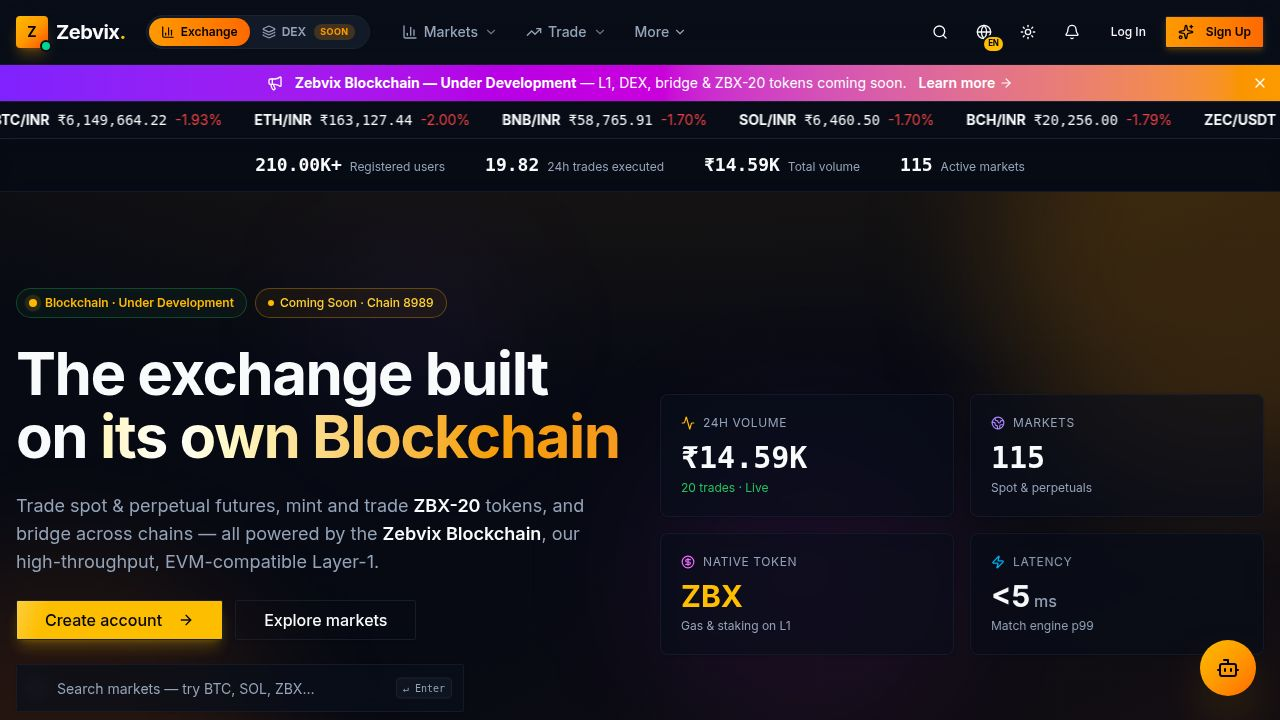
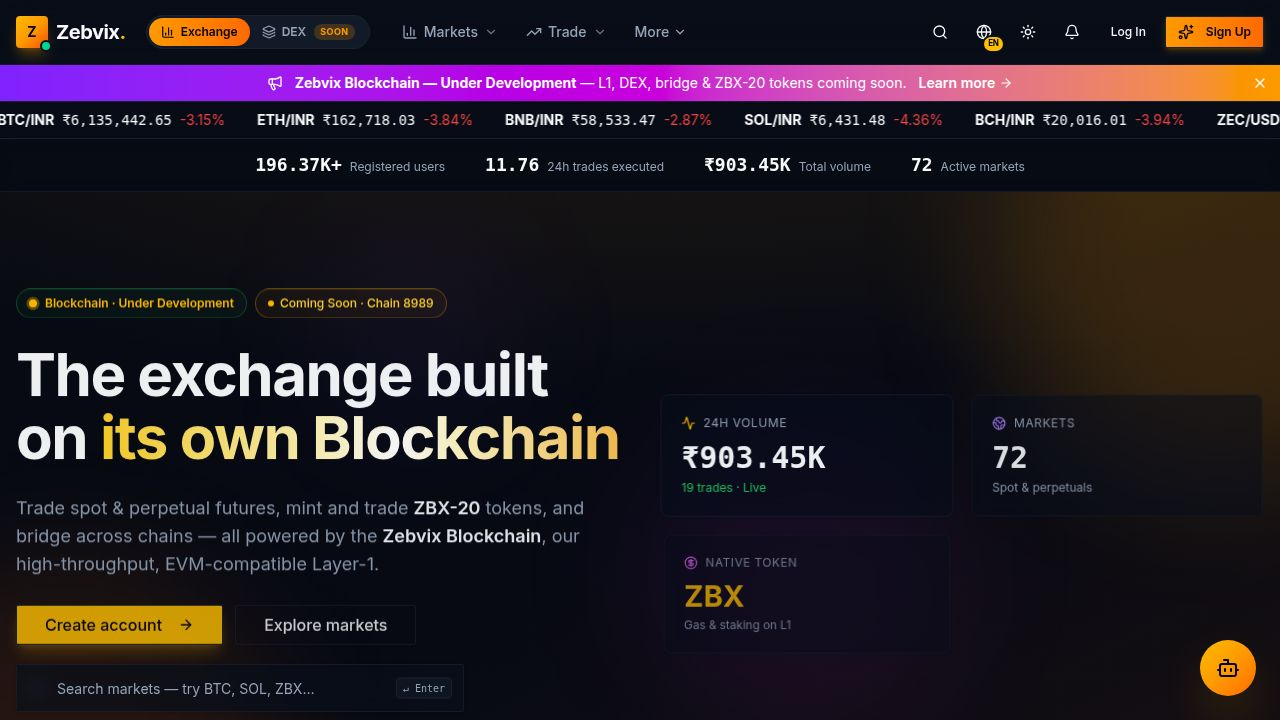
Update currency display to use correct symbols and suffixes
Refactor currency formatting logic across user portal and admin panel to correctly display USD, USDT, and INR values.

Replit-Commit-Author: Agent
Replit-Commit-Session-Id: 11d8fbd6-6061-4d3f-b195-ded5d54cade4
Replit-Commit-Checkpoint-Type: full_checkpoint
Replit-Commit-Event-Id: 20a359d4-cd0f-490e-a3e8-847477169274
Replit-Commit-Screenshot-Url: https://storage.googleapis.com/screenshot-production-us-central1/b46b8e3e-7cc7-4645-bdc1-8a74efc26a22/11d8fbd6-6061-4d3f-b195-ded5d54cade4/qW6uA1P
Replit-Helium-Checkpoint-Created: true

diff --git a/artifacts/user-portal/src/pages/Home.tsx b/artifacts/user-portal/src/pages/Home.tsx
@@ -94,8 +94,6 @@ function isInr(sym: string) {
 }
 function currencyPrefix(sym: string): string {
   if (isInr(sym)) return "₹";
-  const q = sym.split("/")[1] ?? sym;
-  if (q === "USDT" || q === "USDC" || q === "USD" || q === "BUSD") return "$";
   return "";
 }
 function fmtPrice(n: number, sym: string): string {
@@ -468,7 +466,7 @@ function MarketRow({
 
       {/* 24h volume (sm+) */}
       <div className="hidden sm:block sm:col-span-2 lg:col-span-1 text-right font-mono tabular-nums text-xs text-muted-foreground">
-        {fmtCompact(t.quoteVolume, isInr(t.symbol) ? "₹" : "$")}
+        {fmtCompact(t.quoteVolume, isInr(t.symbol) ? "₹" : "")}
       </div>
 
       {/* Sparkline */}
@@ -552,7 +550,7 @@ function MarketCard({
         </div>
         <div className="flex items-end justify-between">
           <div className="text-[10px] text-muted-foreground">
-            Vol {fmtCompact(t.quoteVolume, isInr(t.symbol) ? "₹" : "$")}
+            Vol {fmtCompact(t.quoteVolume, isInr(t.symbol) ? "₹" : "")}
           </div>
           <Sparkline symbol={t.symbol} positive={positive} />
         </div>
@@ -752,7 +750,7 @@ export default function Home() {
           {[
             { label: "Registered users", value: 210000, suffix: "+", prefix: "", compact: true },
             { label: "24h trades executed", value: stats.totalTrades24h || 18400, suffix: "", prefix: "", compact: true },
-            { label: "Total volume", value: stats.totalVolumeUsd || 61176470, suffix: "", prefix: "₹", compact: true },
+            { label: "Total volume", value: stats.totalVolumeInr || 6117647000, suffix: "", prefix: "₹", compact: true },
             { label: "Active markets", value: stats.markets || 249, suffix: "", prefix: "", compact: false },
           ].map((s) => (
             <div key={s.label} className="flex items-baseline gap-2">
@@ -867,7 +865,7 @@ export default function Home() {
                 <Activity className="h-3.5 w-3.5 text-primary" /> 24h volume
               </div>
               <div className="text-3xl font-bold mt-2">
-                <AnimatedNumber value={stats.totalVolumeUsd} prefix="₹" compact />
+                <AnimatedNumber value={stats.totalVolumeInr} prefix="₹" compact />
               </div>
               <div className="text-xs text-success mt-1">
                 {stats.totalTrades24h > 0
@@ -1555,9 +1553,9 @@ function MobileCalloutSection() {
           </p>
           <div className="flex flex-wrap gap-3 pt-2">
             <Button size="lg" className="bg-primary text-primary-foreground hover:bg-primary/90" asChild>
-              <a href="/wallet/" target="_blank" rel="noreferrer noopener">
-                Open mobile wallet (web build) <ArrowRight className="ml-2 h-4 w-4" />
-              </a>
+              <Link href="/wallet">
+                Open wallet <ArrowRight className="ml-2 h-4 w-4" />
+              </Link>
             </Button>
             <Button size="lg" variant="outline" asChild>
               <Link href="/profile">Connect via QR</Link>
@@ -2448,7 +2446,7 @@ function AiTradingBanner() {
           </div>
           <div className="flex flex-wrap gap-3 pt-2">
             <Button size="lg" className="bg-gradient-to-r from-violet-600 to-purple-600 hover:from-violet-500 hover:to-purple-500 text-white shadow-lg shadow-violet-900/30" asChild>
-              <Link href="/trade/BTCINR">Try AI Trade on BTC <ArrowRight className="ml-2 h-4 w-4" /></Link>
+              <Link href="/trade/BTC_INR">Try AI Trade on BTC <ArrowRight className="ml-2 h-4 w-4" /></Link>
             </Button>
             <Button size="lg" variant="outline" className="border-violet-500/30 text-violet-300 hover:bg-violet-500/10" asChild>
               <Link href="/ai-trading">AI Auto-Trading Plans</Link>

diff --git a/artifacts/user-portal/src/pages/Portfolio.tsx b/artifacts/user-portal/src/pages/Portfolio.tsx
@@ -84,7 +84,7 @@ const InrTooltip = ({ active, payload, label, inrRate }: any) => {
         <span className="text-foreground font-mono font-semibold">
           ₹{(val * (inrRate ?? 100)).toLocaleString("en-IN", { minimumFractionDigits: 0, maximumFractionDigits: 0 })}
         </span>
-        <span className="text-muted-foreground">(${val.toLocaleString("en-US", { minimumFractionDigits: 2, maximumFractionDigits: 2 })})</span>
+        <span className="text-muted-foreground">({val.toLocaleString("en-US", { minimumFractionDigits: 2, maximumFractionDigits: 2 })} USDT)</span>
       </div>
     </div>
   );
@@ -98,7 +98,7 @@ const PieInrTooltip = ({ active, payload, inrRate }: any) => {
     <div className="bg-card border border-border rounded-lg px-3 py-2 shadow-xl text-xs">
       <div className="font-bold text-foreground">{d.name}</div>
       <div className="text-foreground font-mono">₹{(usd * (inrRate ?? 100)).toLocaleString("en-IN", { minimumFractionDigits: 0, maximumFractionDigits: 0 })}</div>
-      <div className="text-muted-foreground">${usd.toLocaleString("en-US", { minimumFractionDigits: 2 })}</div>
+      <div className="text-muted-foreground">{usd.toLocaleString("en-US", { minimumFractionDigits: 2 })} USDT</div>
       <div className="text-amber-400 font-semibold">{(d.payload.pct ?? 0).toFixed(1)}%</div>
     </div>
   );
@@ -202,7 +202,7 @@ export default function Portfolio() {
 
   const hide = (s: string) => hidden ? "•••••" : s;
   const fmtInr = (n: number) => hide("₹" + (Number(n) || 0).toLocaleString("en-IN", { minimumFractionDigits: 2, maximumFractionDigits: 2 }));
-  const fmtUsd = (n: number) => hide("$" + (Number(n) || 0).toLocaleString("en-US", { minimumFractionDigits: 2, maximumFractionDigits: 2 }));
+  const fmtUsd = (n: number) => hide((Number(n) || 0).toLocaleString("en-US", { minimumFractionDigits: 2, maximumFractionDigits: 2 }) + " USDT");
   const fmtCoin = (n: number, sym: string) => hide((Number(n) || 0).toLocaleString("en-US", { maximumFractionDigits: 6 }) + " " + sym);
 
   const refresh = () => { walletQ.refetch(); pnlQ.refetch(); };
@@ -286,7 +286,7 @@ export default function Portfolio() {
           prefix="₹"
           icon={Wallet}
           loading={walletQ.isLoading}
-          hint={hidden ? "Hidden" : `≈ ${fmtUsd(totalUsd)} USD`}
+          hint={hidden ? "Hidden" : `≈ ${fmtUsd(totalUsd)}`}
         />
         <PremiumStatCard
           title="24h P&L (INR)"

diff --git a/artifacts/user-portal/src/pages/Markets.tsx b/artifacts/user-portal/src/pages/Markets.tsx
@@ -69,15 +69,15 @@ function quoteAsset(sym: string) {
 }
 function currencyPrefix(sym: string): string {
   if (isInr(sym)) return "₹";
-  const q = sym.split("/")[1] ?? sym;
-  if (q === "USDT" || q === "USDC" || q === "USD" || q === "BUSD") return "$";
   return "";
 }
 function fmtPrice(n: number, sym: string): string {
   if (!isFinite(n) || n === 0) return "—";
   const inr = isInr(sym);
   const digits = inr ? 2 : n < 1 ? 6 : n < 100 ? 4 : 2;
-  return currencyPrefix(sym) + n.toLocaleString(undefined, { minimumFractionDigits: digits, maximumFractionDigits: digits });
+  const q = sym.split("/")[1] ?? "";
+  const suffix = !inr && q ? ` ${q}` : "";
+  return currencyPrefix(sym) + n.toLocaleString(undefined, { minimumFractionDigits: digits, maximumFractionDigits: digits }) + suffix;
 }
 function fmtCompact(n: number, prefix = "") {
   if (!isFinite(n) || n === 0) return prefix + "0";
@@ -765,7 +765,7 @@ export default function Markets() {
                         {fmtPrice(t.low, t.symbol)}
                       </td>
                       <td className="px-2 py-3 text-right font-mono tabular-nums text-xs">
-                        {fmtCompact(t.quoteVolume || 0, isInr(t.symbol) ? "₹" : "$")}
+                        {isInr(t.symbol) ? fmtCompact(t.quoteVolume || 0, "₹") : fmtCompact(t.quoteVolume || 0) + " " + quoteAsset(t.symbol)}
                       </td>
                       <td className="px-2 py-3 hidden xl:table-cell">
                         <div className="flex justify-center">
@@ -844,7 +844,7 @@ export default function Markets() {
                         {isNew && <Badge className="h-3.5 px-1 text-[8px] bg-emerald-500/15 text-emerald-400 border-emerald-500/30">NEW</Badge>}
                       </div>
                       <div className="text-[10px] text-muted-foreground">
-                        Vol {fmtCompact(t.quoteVolume || 0, isInr(t.symbol) ? "₹" : "$")}
+                        Vol {isInr(t.symbol) ? fmtCompact(t.quoteVolume || 0, "₹") : fmtCompact(t.quoteVolume || 0) + " " + quoteAsset(t.symbol)}
                       </div>
                     </div>
                     <MiniSpark symbol={t.symbol} pct={t.priceChangePercent} w={48} h={20} />

diff --git a/artifacts/user-portal/src/pages/Bots.tsx b/artifacts/user-portal/src/pages/Bots.tsx
@@ -79,18 +79,18 @@ export default function Bots() {
         <PremiumStatCard title="Active bots" value={String(runningCount)} icon={BotIcon} accent />
         <PremiumStatCard
           title="Total invested"
-          value={`₹${totalInvested.toLocaleString("en-IN", { maximumFractionDigits: 2 })}`}
+          value={totalInvested.toLocaleString("en-US", { maximumFractionDigits: 2 }) + " USDT"}
           icon={DollarSign}
         />
         <PremiumStatCard
           title="Realized PnL"
-          value={`${totalRealized >= 0 ? "+" : ""}₹${totalRealized.toFixed(2)}`}
+          value={`${totalRealized >= 0 ? "+" : ""}${totalRealized.toFixed(2)} USDT`}
           icon={TrendingUp}
           accent={totalRealized > 0}
         />
         <PremiumStatCard
           title="Unrealized PnL"
-          value={`${totalUnrealized >= 0 ? "+" : ""}₹${totalUnrealized.toFixed(2)}`}
+          value={`${totalUnrealized >= 0 ? "+" : ""}${totalUnrealized.toFixed(2)} USDT`}
           icon={Activity}
           accent={totalUnrealized > 0}
         />
@@ -181,13 +181,13 @@ function BotCard({ bot, onSelect }: { bot: Bot; onSelect: () => void }) {
             <div>
               <div className="text-muted-foreground">Realized</div>
               <div className={`font-mono font-bold ${realized >= 0 ? "text-emerald-400" : "text-rose-400"}`}>
-                {realized >= 0 ? "+" : ""}${realized.toFixed(2)}
+                {realized >= 0 ? "+" : ""}{realized.toFixed(2)} USDT
               </div>
             </div>
             <div>
               <div className="text-muted-foreground">Unrealized</div>
               <div className={`font-mono font-bold ${unrealized >= 0 ? "text-emerald-400" : "text-rose-400"}`}>
-                {unrealized >= 0 ? "+" : ""}${unrealized.toFixed(2)}
+                {unrealized >= 0 ? "+" : ""}{unrealized.toFixed(2)} USDT
               </div>
             </div>
             <div>

diff --git a/artifacts/admin/src/pages/ai-trading-plans.tsx b/artifacts/admin/src/pages/ai-trading-plans.tsx
@@ -879,7 +879,7 @@ export default function AITradingPlansPage() {
                     </defs>
                     <CartesianGrid strokeDasharray="3 3" stroke="rgba(255,255,255,0.05)" />
                     <XAxis dataKey="date" tick={{ fill: "#64748b", fontSize: 10 }} axisLine={false} tickLine={false} />
-                    <YAxis tick={{ fill: "#64748b", fontSize: 10 }} axisLine={false} tickLine={false} tickFormatter={v => "$" + fmtNum(v)} />
+                    <YAxis tick={{ fill: "#64748b", fontSize: 10 }} axisLine={false} tickLine={false} tickFormatter={v => fmtNum(v) + " USDT"} />
                     <Tooltip content={<ChartTooltip />} />
                     <Area type="monotone" dataKey="earned" name="Earnings" stroke="#f59e0b" strokeWidth={2} fill="url(#earnGrad)" dot={false} />
                   </AreaChart>
@@ -935,7 +935,7 @@ export default function AITradingPlansPage() {
                 <BarChart data={planEarningsData} margin={{ top: 4, right: 8, bottom: 0, left: 0 }}>
                   <CartesianGrid strokeDasharray="3 3" stroke="rgba(255,255,255,0.05)" vertical={false} />
                   <XAxis dataKey="name" tick={{ fill: "#64748b", fontSize: 10 }} axisLine={false} tickLine={false} />
-                  <YAxis tick={{ fill: "#64748b", fontSize: 10 }} axisLine={false} tickLine={false} tickFormatter={v => "$" + fmtNum(v)} />
+                  <YAxis tick={{ fill: "#64748b", fontSize: 10 }} axisLine={false} tickLine={false} tickFormatter={v => fmtNum(v) + " USDT"} />
                   <Tooltip content={<ChartTooltip />} />
                   <Legend
                     wrapperStyle={{ fontSize: 11, color: "#64748b" }}

diff --git a/artifacts/user-portal/src/pages/CopyTrading.tsx b/artifacts/user-portal/src/pages/CopyTrading.tsx
@@ -155,7 +155,7 @@ function TraderCard({ trader, rank }: { trader: Trader; rank: number }) {
           <div className="grid grid-cols-4 gap-2 mt-3 text-[11px]">
             <Metric label="30d PnL" value={`${pnl30 >= 0 ? "+" : ""}${pnl30.toFixed(2)}%`} good={pnl30 >= 0} />
             <Metric label="Win rate" value={`${win.toFixed(0)}%`} />
-            <Metric label="AUM" value={`₹${aum >= 1000 ? (aum / 1000).toFixed(1) + "k" : aum.toFixed(0)}`} />
+            <Metric label="AUM" value={`${aum >= 1000 ? (aum / 1000).toFixed(1) + "k" : aum.toFixed(0)} USDT`} />
             <Metric label="Followers" value={String(trader.followersCount)} />
           </div>
           <div className="flex items-center justify-between mt-3 pt-3 border-t border-border/50 text-[11px]">
@@ -267,8 +267,8 @@ function Following() {
     <>
       <div className="grid grid-cols-3 gap-3">
         <PremiumStatCard title="Active follows" value={String(active.length)} icon={Users} accent />
-        <PremiumStatCard title="Total allocated" value={`₹${totalAlloc.toLocaleString("en-IN")}`} icon={DollarSign} />
-        <PremiumStatCard title="Copy PnL" value={`${totalPnl >= 0 ? "+" : ""}₹${totalPnl.toFixed(2)}`} icon={TrendingUp} accent={totalPnl > 0} />
+        <PremiumStatCard title="Total allocated" value={`${totalAlloc.toLocaleString("en-US", { maximumFractionDigits: 2 })} USDT`} icon={DollarSign} />
+        <PremiumStatCard title="Copy PnL" value={`${totalPnl >= 0 ? "+" : ""}${totalPnl.toFixed(2)} USDT`} icon={TrendingUp} accent={totalPnl > 0} />
       </div>
 
       {items.length === 0 ? (

diff --git a/artifacts/user-portal/src/pages/Futures.tsx b/artifacts/user-portal/src/pages/Futures.tsx
@@ -54,8 +54,8 @@ function fmtPrice(n: number, quote: string): string {
   if (!isFinite(n) || n === 0) return "—";
   const inr = quote === "INR";
   const digits = inr ? 2 : n < 1 ? 6 : n < 100 ? 4 : 2;
-  const prefix = inr ? "₹" : (quote === "USDT" || quote === "USDC" || quote === "USD") ? "$" : "";
-  const suffix = (!inr && quote !== "USDT" && quote !== "USDC" && quote !== "USD" && quote) ? ` ${quote}` : "";
+  const prefix = inr ? "₹" : "";
+  const suffix = !inr && quote ? ` ${quote}` : "";
   return prefix + n.toLocaleString(undefined, { minimumFractionDigits: digits, maximumFractionDigits: digits }) + suffix;
 }
 function fmtCompact(n: number, prefix = "") {
@@ -624,7 +624,7 @@ export default function Futures() {
           <HeaderStat label="24h High">{fmtPrice(high, quote)}</HeaderStat>
           <HeaderStat label="24h Low">{fmtPrice(low, quote)}</HeaderStat>
           <HeaderStat label={`24h Vol (${base})`}>{fmtCompact(vol)}</HeaderStat>
-          <HeaderStat label={`24h Vol (${quote})`}>{fmtCompact(quoteVol, quote === "INR" ? "₹" : "$")}</HeaderStat>
+          <HeaderStat label={`24h Vol (${quote})`}>{fmtCompact(quoteVol, quote === "INR" ? "₹" : "")}{quote !== "INR" && quote ? ` ${quote}` : ""}</HeaderStat>
 
           {!isSimple && (
             <HeaderStat label="Funding · Next">

diff --git a/artifacts/user-portal/src/pages/Trade.tsx b/artifacts/user-portal/src/pages/Trade.tsx
@@ -73,8 +73,8 @@ function fmtPrice(n: number, quote: string): string {
   if (!isFinite(n) || n === 0) return "—";
   const inr = quote === "INR";
   const digits = inr ? 2 : n < 1 ? 6 : n < 100 ? 4 : 2;
-  const prefix = inr ? "₹" : (quote === "USDT" || quote === "USDC" || quote === "USD") ? "$" : "";
-  const suffix = (!inr && quote !== "USDT" && quote !== "USDC" && quote !== "USD" && quote) ? ` ${quote}` : "";
+  const prefix = inr ? "₹" : "";
+  const suffix = !inr && quote ? ` ${quote}` : "";
   return prefix + n.toLocaleString(undefined, { minimumFractionDigits: digits, maximumFractionDigits: digits }) + suffix;
 }
 function fmtCompact(n: number, prefix = "") {
@@ -688,7 +688,7 @@ export default function Trade() {
           <Stat label="24h High">{fmtPrice(high, quote)}</Stat>
           <Stat label="24h Low">{fmtPrice(low, quote)}</Stat>
           <Stat label={`24h Vol (${base})`}>{fmtCompact(vol)}</Stat>
-          <Stat label={`24h Vol (${quote})`}>{fmtCompact(quoteVol, quote === "INR" ? "₹" : "$")}</Stat>
+          <Stat label={`24h Vol (${quote})`}>{fmtCompact(quoteVol, quote === "INR" ? "₹" : "")}{quote !== "INR" && quote ? ` ${quote}` : ""}</Stat>
 
           {/* Layout switcher (right) */}
           <div className="ml-auto flex items-center gap-2 flex-shrink-0">

diff --git a/artifacts/user-portal/src/pages/tools/Compare.tsx b/artifacts/user-portal/src/pages/tools/Compare.tsx
@@ -13,17 +13,17 @@ function fmt(n: number, dp = 2) {
 function currencySymbol(pair: string): string {
   const quote = pair.split("/")[1] || "";
   if (quote === "INR") return "₹";
-  if (quote === "USDT" || quote === "USDC" || quote === "USD") return "$";
+  if (quote === "USDT" || quote === "USDC" || quote === "USD") return "";
   if (quote === "BTC") return "₿";
   if (quote === "ETH") return "Ξ";
   return quote ? `${quote} ` : "₹";
 }
 function fmtCompact(n: number) {
   if (!Number.isFinite(n) || n === 0) return "—";
-  if (n >= 1e9) return `₹${(n / 1e9).toFixed(2)}B`;
-  if (n >= 1e6) return `₹${(n / 1e6).toFixed(2)}M`;
-  if (n >= 1e3) return `₹${(n / 1e3).toFixed(2)}K`;
-  return `₹${n.toFixed(2)}`;
+  if (n >= 1e9) return `${(n / 1e9).toFixed(2)}B USDT`;
+  if (n >= 1e6) return `${(n / 1e6).toFixed(2)}M USDT`;
+  if (n >= 1e3) return `${(n / 1e3).toFixed(2)}K USDT`;
+  return `${n.toFixed(2)} USDT`;
 }
 function dpFor(n: number) {
   if (n >= 1000) return 2;

diff --git a/artifacts/admin/src/pages/instruments-admin.tsx b/artifacts/admin/src/pages/instruments-admin.tsx
@@ -207,7 +207,7 @@ export default function InstrumentsAdminPage() {
                             </td>
                             <td className="py-3 px-4 text-xs text-muted-foreground">{inst.exchange}</td>
                             <td className="py-3 px-4 text-right tabular-nums text-sm font-medium">
-                              {inst.quoteCurrency === "INR" ? "₹" : "$"}{Number(inst.currentPrice).toLocaleString("en-IN", { maximumFractionDigits: inst.pricePrecision })}
+                              {inst.quoteCurrency === "INR" ? "₹" : ""}{Number(inst.currentPrice).toLocaleString("en-IN", { maximumFractionDigits: inst.pricePrecision })}{inst.quoteCurrency !== "INR" ? ` ${inst.quoteCurrency}` : ""}
                             </td>
                             <td className={cn("py-3 px-4 text-right tabular-nums text-xs font-medium", isUp ? "text-emerald-400" : "text-red-400")}>
                               {isUp ? "+" : ""}{chg.toFixed(2)}%

diff --git a/artifacts/user-portal/src/components/PriceChart.tsx b/artifacts/user-portal/src/components/PriceChart.tsx
@@ -73,10 +73,10 @@ function sma(values: { time: number; close: number }[], period: number): LineDat
 function fmtPrice(n: number, quote: string): string {
   if (!isFinite(n) || n === 0) return "—";
   const inr = quote === "INR";
-  const usd = quote === "USDT" || quote === "USDC" || quote === "USD" || quote === "BUSD";
   const digits = inr ? 2 : n < 1 ? 6 : n < 100 ? 4 : 2;
-  const prefix = inr ? "₹" : usd ? "$" : "";
-  return prefix + n.toLocaleString(undefined, { minimumFractionDigits: digits, maximumFractionDigits: digits });
+  const prefix = inr ? "₹" : "";
+  const suffix = !inr && quote ? ` ${quote}` : "";
+  return prefix + n.toLocaleString(undefined, { minimumFractionDigits: digits, maximumFractionDigits: digits }) + suffix;
 }
 function fmtCompact(n: number): string {
   if (!isFinite(n) || n === 0) return "0";

diff --git a/artifacts/user-portal/src/pages/AITrading.tsx b/artifacts/user-portal/src/pages/AITrading.tsx
@@ -1282,7 +1282,7 @@ function SubscribeDialog({ plan, open, onClose, onSuccess }: {
             />
             {numAmt > 0 && !isValid && (
               <p className="text-xs text-rose-400 mt-1.5">
-                {numAmt < minAmt ? `Minimum: ${currency === "USDT" ? "$" : "₹"}${minAmt.toLocaleString()}` : `Maximum: ${currency === "USDT" ? "$" : "₹"}${maxAmt.toLocaleString()}`}
+                {numAmt < minAmt ? `Minimum: ${currency === "USDT" ? "" : "₹"}${minAmt.toLocaleString()}${currency === "USDT" ? " USDT" : ""}` : `Maximum: ${currency === "USDT" ? "" : "₹"}${maxAmt.toLocaleString()}${currency === "USDT" ? " USDT" : ""}`}
               </p>
             )}
           </div>
